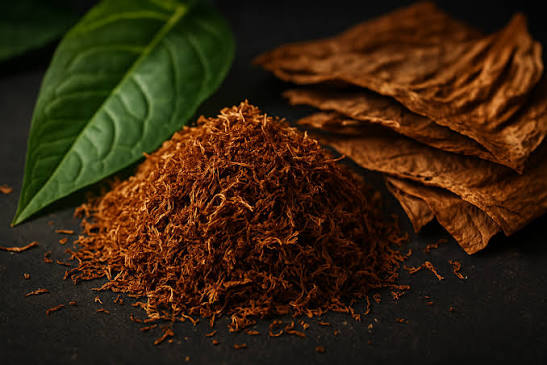
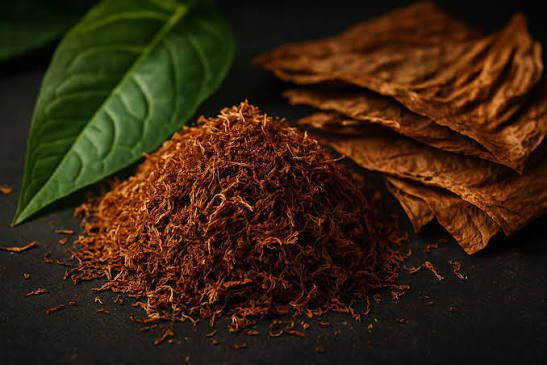
Optimize images (rolling-kit 1.3MB->38KB, PNG->WebP) + fix marquee/coverflow prices

diff --git a/js/products.js b/js/products.js
@@ -14,13 +14,13 @@ const PRODUCTS = [
   /* ---------- توتون و برگ ارگانیک (16) ---------- */
   { id: 't01', cat: 'tobacco', img: 'images/burley-box.webp', name: 'توتون چاپمن آلمانی وارداتی (سیگار)', price: 6000000, oldPrice: 7050000, badge: 'جدید', weight: '۱۰۰ گرم', origin: 'آلمان',
     desc: 'برش یکدست و عطر اصیل آلمانی؛ تخمیر طبیعی بدون هیچ افزودنی شیمیایی. انتخابی بینقص برای عاشقان سیگار دستساز.' },
-  { id: 't02', cat: 'tobacco', img: 'images/leaf-cigars.png', name: 'توتون مالت کوبایی اصل (پیپ و سیگار)', price: 6000000, oldPrice: 7050000, weight: '۱۰۰ گرم', origin: 'کوبا',
+  { id: 't02', cat: 'tobacco', img: 'images/leaf-cigars.webp', name: 'توتون مالت کوبایی اصل (پیپ و سیگار)', price: 6000000, oldPrice: 7050000, weight: '۱۰۰ گرم', origin: 'کوبا',
     desc: 'مایلتی غنی و دودی از مزارع کوبا؛ تعادل کمنظیری میان قدرت و نرمی برای مصرف پیپ و سیگار.' },
   { id: 't03', cat: 'tobacco', img: 'images/tobacco-pile.jpg', name: 'توتون اشنویه ایرانی (اصیل)', price: 3500000, oldPrice: 4020000, badge: 'پیشنهاد ویژه', weight: '۱۰۰ گرم', origin: 'ایران — اشنویه',
     desc: 'برگ اصیل اشنویه با خشکسازی سنتی و تخمیر کامل؛ رایحه خاکی و نوستالژیک توتون ایرانی قدیمی.' },
   { id: 't04', cat: 'tobacco', img: 'images/oriental-box.webp', name: 'شاهتوتون ترکیه (اورجینال)', price: 4000000, oldPrice: 5000000, weight: '۱۰۰ گرم', origin: 'ترکیه',
     desc: 'توتون شرقی معروف ترکیه با برگهای خوشعطر و رطوبت متعادل؛ مناسب مصرفکننده حرفهای.' },
-  { id: 't05', cat: 'tobacco', img: 'images/leaf-bundle.png', name: 'توتون موش ترکیه طلایی (اورجینال)', price: 4000000, oldPrice: 5000000, badge: 'پیشنهاد ویژه', weight: '۱۰۰ گرم', origin: 'ترکیه — موش',
+  { id: 't05', cat: 'tobacco', img: 'images/leaf-bundle.webp', name: 'توتون موش ترکیه طلایی (اورجینال)', price: 4000000, oldPrice: 5000000, badge: 'پیشنهاد ویژه', weight: '۱۰۰ گرم', origin: 'ترکیه — موش',
     desc: 'از منطقه موش ترکیه؛ طعمی ملایم و شیرین با عطر طبیعی که به هیچ مواد افزودنی نیاز ندارد.' },
   { id: 't06', cat: 'tobacco', img: 'images/artisan.jpg', name: 'توتون کاپیتان چرچیل وارداتی (سیگار و پیپ)', price: 5000000, oldPrice: 6020000, weight: '۱۰۰ گرم', origin: 'وارداتی',
     desc: 'بلند ترکیبی با بدنهای غنی و عطر وانیلی طبیعی؛ هم برای سیگار و هم برای پیپ عالی است.' },
@@ -36,7 +36,7 @@ const PRODUCTS = [
     desc: 'لوکسترین برند توتون دنیا؛ ظرافت سوئیسی، عطر ملایم و کیفیتی که نیاز به توصیف ندارد.' },
   { id: 't12', cat: 'tobacco', img: 'images/burley-box.webp', name: 'توتون دانهیل وارداتی (سیگار و پیپ)', price: 5000000, oldPrice: 5560000, weight: '۱۰۰ گرم', origin: 'وارداتی',
     desc: 'ترکیبی از ویرجینیا و برلی با تخمیر سرد؛ عمق و پیچیدگیای که دانهیل را متمایز میکند.' },
-  { id: 't13', cat: 'tobacco', img: 'images/leaf-cigars.png', name: 'توتون تفلیس گرجستان (اورجینال)', price: 4000000, oldPrice: 5000000, weight: '۱۰۰ گرم', origin: 'گرجستان',
+  { id: 't13', cat: 'tobacco', img: 'images/leaf-cigars.webp', name: 'توتون تفلیس گرجستان (اورجینال)', price: 4000000, oldPrice: 5000000, weight: '۱۰۰ گرم', origin: 'گرجستان',
     desc: 'برگ قوی و معطر از تپههای تفلیس؛ انتخابی اقتصادی با کیفیت شگفتزنکننده.' },
   { id: 't14', cat: 'tobacco', img: 'images/oriental-box.webp', name: 'توتون بیشمه ترکیه (وارداتی)', price: 4000000, oldPrice: 5000000, weight: '۱۰۰ گرم', origin: 'ترکیه',
     desc: 'توتون شرقی با برش متوسط و رایحه گیاهی؛ ماندگاری عطر فوقالعاده در بستهبندی زیپدار.' },

diff --git a/css/styles.css b/css/styles.css
@@ -89,6 +89,7 @@ header.site{
   box-shadow:inset 0 0 18px rgba(79,179,217,.14);
 }
 .logo-mark svg{ width:26px; height:26px; }
+.logo-mark img{ width:100%; height:100%; object-fit:cover; border-radius:12px; display:block; }
 .logo-text strong{ display:block; font-size:1.05rem; font-weight:900; letter-spacing:.02em; }
 .logo-text span{ font-size:.68rem; color:var(--gold-2); letter-spacing:.28em; }
 .nav-links{ display:flex; gap:4px; }
@@ -353,7 +354,7 @@ header.site{
 .cf-stage::after{ inset-inline-end:0; background:linear-gradient(270deg,var(--bg),transparent); }
 .cf-ring{ position:absolute; inset:0; transform-style:preserve-3d; }
 .cf-stage .c3d-card{
-  left:50%; top:50%; width:252px; height:370px;
+  left:50%; top:50%; right:auto; bottom:auto; width:252px; height:370px;
   margin:-185px 0 0 -126px;
   transition:transform .65s cubic-bezier(.22,.8,.3,1), opacity .65s, filter .65s;
 }
@@ -363,7 +364,7 @@ header.site{
 .cf-dots{ display:flex; gap:7px; align-items:center; margin:0 10px; }
 .cf-dot{ width:9px; height:9px; border-radius:20px; background:var(--line); transition:.35s; }
 .cf-dot.on{ width:26px; background:var(--gold-2); }
-@media(max-width:600px){ .cf-stage{ height:390px; } .cf-stage .c3d-card{ width:224px; height:346px; margin:-173px 0 0 -112px; } }
+@media(max-width:600px){ .cf-stage{ height:390px; } .cf-stage .c3d-card{ width:224px; height:346px; margin:-173px 0 0 -112px; right:auto; bottom:auto; } }
 
 /* ---------- نوار متحرک بینهایت ---------- */
 .mq-section{ padding:56px 0; overflow:hidden; }
@@ -378,9 +379,10 @@ header.site{
 .mq-band::before{ inset-inline-start:0; background:linear-gradient(90deg,var(--bg),transparent); }
 .mq-band::after{ inset-inline-end:0; background:linear-gradient(270deg,var(--bg),transparent); }
 .mq-track{
-  display:flex; gap:18px; width:max-content; direction:ltr;
+  display:flex; width:max-content; direction:ltr;
   animation:mqSlide 55s linear infinite; will-change:transform;
 }
+.mq-set{ display:flex; gap:18px; padding-inline-end:18px; flex-shrink:0; }
 .mq-band:hover .mq-track{ animation-play-state:paused; }
 @keyframes mqSlide{ from{ transform:translateX(0); } to{ transform:translateX(-50%); } }
 .mq-card{

diff --git a/js/shop.js b/js/shop.js
@@ -353,7 +353,7 @@ function featuredCard(p){
       <span class="p-cat">${CATEGORIES[p.cat].name}</span>
       <a class="c3d-name" href="product.html?id=${p.id}">${p.name}</a>
       <div class="c3d-foot">
-        <span class="c3d-price">${PRICE_FMT(p.price)}<span class="unit">تومان</span></span>
+        <span class="c3d-price">${PRICE_FMT(priceFor(p))}<span class="unit">تومان</span></span>
         <button class="add-btn" data-add="${p.id}" aria-label="افزودن به سبد">${I.plus}</button>
       </div>
     </div>
@@ -376,7 +376,7 @@ function initFeaturedCarousel(){
   });
 
   const stage = document.getElementById('c3dStage');
-  const BASE_SPEED = -0.11;           /* اسلوموشن: حدود ۷ درجه بر ثانیه */
+  const BASE_SPEED = -0.16;           /* اسلوموشن: ~۱۰ درجه بر ثانیه — چرخه کامل ~۳۶ ثانیه */
   let angle = 0, vel = BASE_SPEED;
   let paused = false, dragging = false, lastX = 0, moved = 0;
   let target = null;                   /* زاویه هدف هنگام زدن دکمه */
@@ -515,11 +515,12 @@ function buildMarquee(trackId, products){
       <div class="mq-thumb">${productThumb(p)}</div>
       <div class="mq-body">
         <span class="mq-name">${p.name}</span>
-        <span class="mq-price">${PRICE_FMT(p.price)} <small>تومان</small></span>
+        <span class="mq-price">${PRICE_FMT(priceFor(p))} <small>تومان</small></span>
       </div>
     </a>`;
   const html = products.map(card).join('');
-  track.innerHTML = html + html; /* دو نسخه برای حلقه بینهایت */
+  /* دو ست کامل و همعرض — انیمیشن -۵۰% دقیقاً یک ست جابجا میشود → حلقه بیدرز */
+  track.innerHTML = `<div class="mq-set">${html}</div><div class="mq-set">${html}</div>`;
 }
 
 /* ---------- صفحه سبد خرید ---------- */

diff --git a/js/app.js b/js/app.js
@@ -150,7 +150,7 @@ function renderHeader(active){
       <div class="container nav">
         <a class="logo" href="index.html">
           <span class="logo-mark">
-            <svg viewBox="0 0 100 100"><path d="M50 88C30 74 16 56 20 34 42 30 66 40 76 58c6 11 4 22-4 30-6 6-14 8-22 0z" fill="none" stroke="#4fb3d9" stroke-width="4"/><path d="M50 88C42 66 34 48 24 36" stroke="#7fd0e8" stroke-width="3" fill="none" stroke-linecap="round"/></svg>
+            <img src="images/logo-96.webp" alt="آرم Mr Organico">
           </span>
           <span class="logo-text"><strong>Mr Organico</strong><span>ارگانیک • اصیل • خالص</span></span>
         </a>
@@ -193,7 +193,7 @@ function renderFooter(){
         <div class="footer-grid">
           <div class="footer-about">
             <a class="logo" href="index.html">
-              <span class="logo-mark"><svg viewBox="0 0 100 100"><path d="M50 88C30 74 16 56 20 34 42 30 66 40 76 58c6 11 4 22-4 30-6 6-14 8-22 0z" fill="none" stroke="#4fb3d9" stroke-width="4"/><path d="M50 88C42 66 34 48 24 36" stroke="#7fd0e8" stroke-width="3" fill="none" stroke-linecap="round"/></svg></span>
+              <span class="logo-mark"><img src="images/logo-96.webp" alt="آرم Mr Organico"></span>
               <span class="logo-text"><strong>Mr Organico</strong><span>ارگانیک • اصیل • خالص</span></span>
             </a>
             <p>مرجع تخصصی توتون ارگانیک، برگ طبیعی و پیپ دستساز — بدون هیچ افزودنی و ماده شیمیایی. از مزرعه تا بستهبندی، تحت نظارت کامل.</p>

diff --git a/js/articles.js b/js/articles.js
@@ -31,7 +31,7 @@ const ARTICLES = [
   {
     id: 'pipe-guide',
     title: 'راهنمای کامل انتخاب و نگهداری پیپ طبیعی',
-    img: 'images/leaf-cigars.png',
+    img: 'images/leaf-cigars.webp',
     cat: 'راهنمای خرید', date: '۱۴۰۴/۰۶/۲۸', read: '۸ دقیقه',
     excerpt: 'از چوب Heather تا فرم کاسه و ساقه؛ هر آنچه قبل از خرید اولین پیپ باید بدانید.',
     body: `
